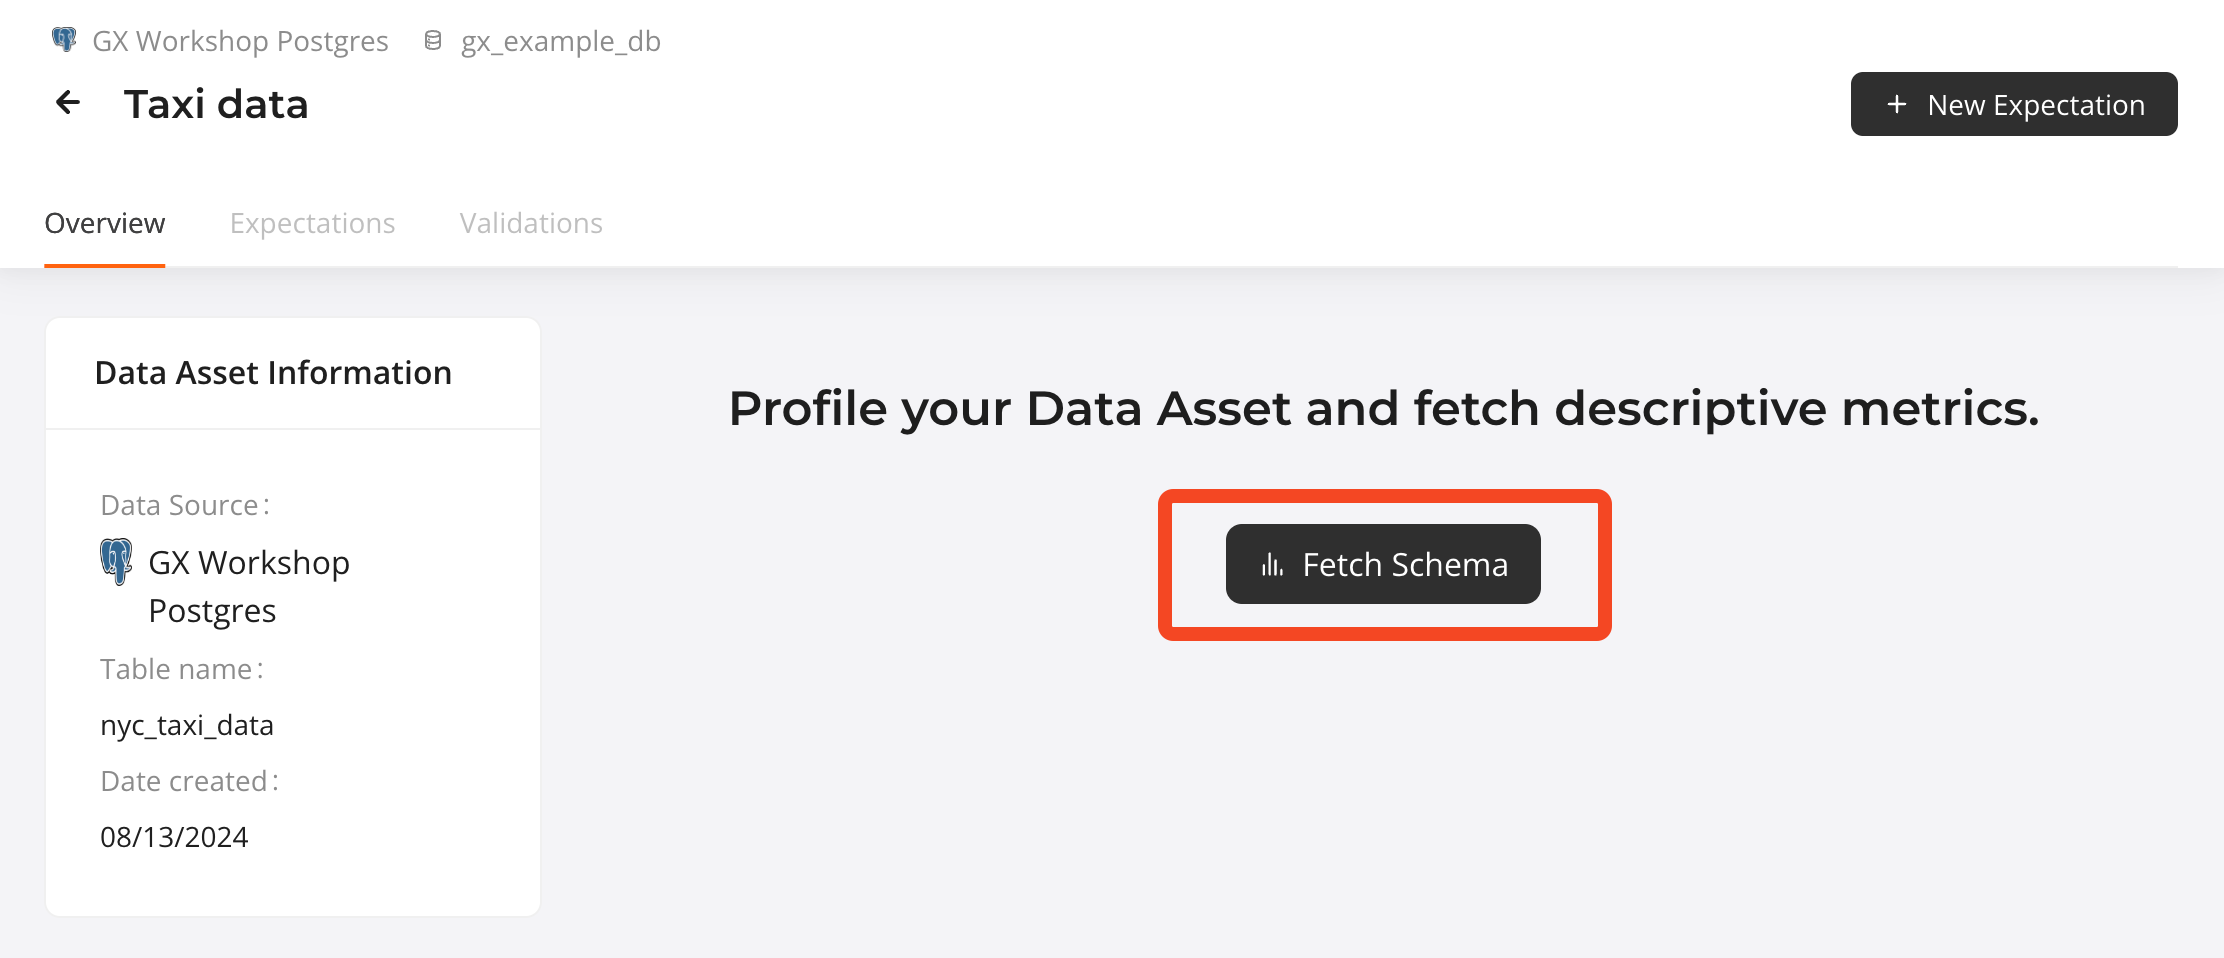
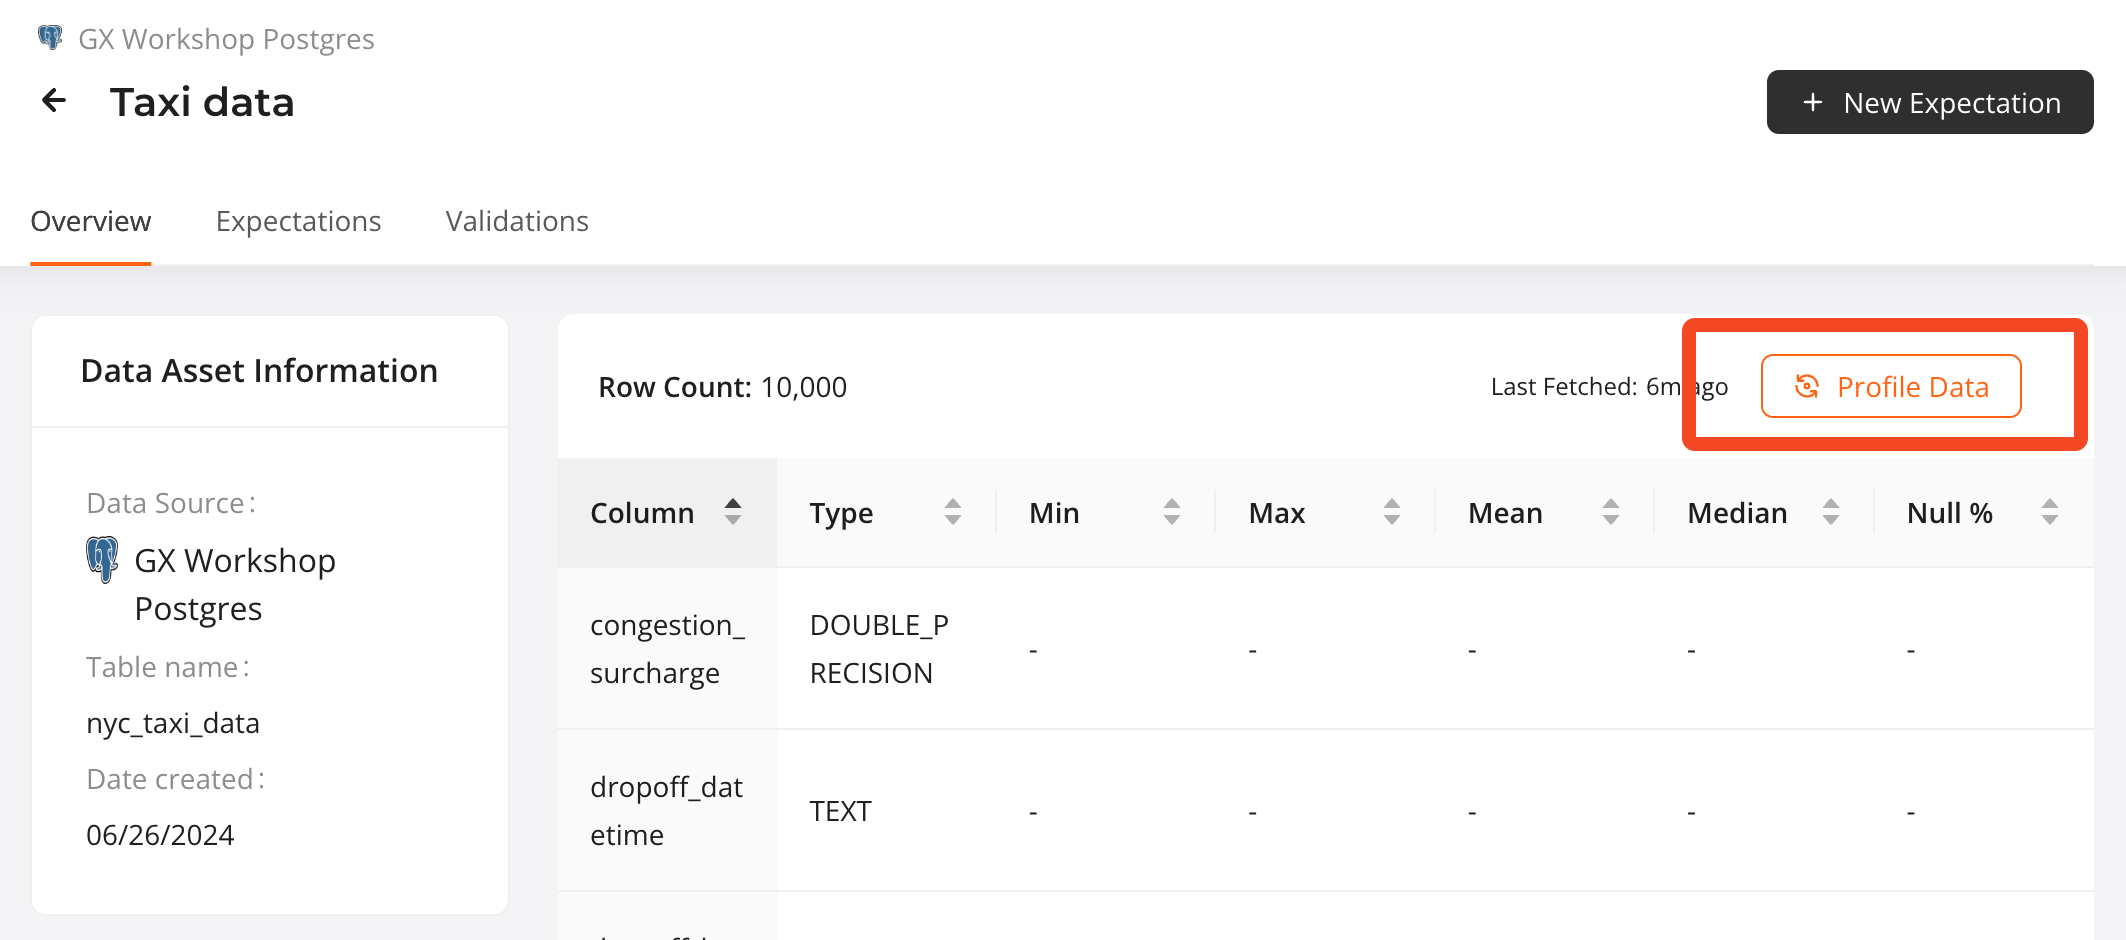
[DSB-1041] - a few other updates

diff --git a/get_started_with_gx_cloud_and_postgres/workshop.md b/get_started_with_gx_cloud_and_postgres/workshop.md
@@ -6,7 +6,6 @@ Welcome to our workshop! In this workshop, you'll learn how to connect your GX C
 
 ## Prerequisites
 - A [GX Cloud](https://hubl.li/Q02ng2Jx0) account with Admin or Editor permissions.
-- A publicly accessible PostgreSQL database.
 
 ## Agenda
 You'll complete the following tasks in this workshop:
@@ -27,7 +26,7 @@ If you're new to GX, an understanding of the following [GX terminology](https://
 Sign in to [GX Cloud](https://hubl.li/Q02ng2Jx0).
 
 ## Create a Postgres Data Source and Data Asset
-You'll need to connect to Postgres from GX Cloud. We have set up a publicly available AWS RDS instance for workshop users.
+You'll need to connect to Postgres from GX Cloud. We have set up a publicly available AWS RDS instance for this workshop.
 
 > **Create a Postgres Data Source**
 > 1. In GX Cloud, click **Data Assets** > **New Data Asset**, if this is your first time using GX Cloud, the **Data Assets** page will prompt to create a **Data Source**.
@@ -44,7 +43,7 @@ You'll need to connect to Postgres from GX Cloud. We have set up a publicly avai
 
 > **Configure the GX Workshop Postgres Data Asset**
 > 1. On the **Select tables to import** page, check the box next to `nyc_taxi_data`.
-> 1. Click **Finish**.
+> 1. Click **Add 1 Asset**.
 
 <img src="img/add_pg_data_asset.png" alt="Add a Postgres Data Source" style="width:600px;"/><br>
 
@@ -101,7 +100,7 @@ You have successfully created two Expectations. Now, make sure that they pass as
 
 <img src="../common/img/validate_1.png" alt="Validate a Data Asset" style="width:800px;"/><br>
 
-After you click **Validate**, GX Cloud sends a job to your locally running GX Agent to run queries, based on the defined Expectations, against the data in Postgres. The GX Agent uses the query results to determine if the data fails or meets your Expectations, and reports the results back to GX Cloud.
+After you click **Validate**, GX Cloud starts a job to run queries based on the defined Expectations against the data in Postgres. GX Cloud uses the query results to determine if the data fails or meets your Expectations, and reports the results back to the UI.
 
 After validation is completed, a notification appears indicating that the Validation results are ready. To view the results, you can either click on the link provided in the notification, or click on the Data Asset **Validations** tab.
 
@@ -123,13 +122,13 @@ After the Expectation is updated, run the Validation again. When the notificatio
 <img src="../common/img/validation_result_2.png" alt="Validation results with all passing Expectations" style="width:700px;"/><br>
 
 ## Fetch Metrics
-You might wonder if there is an easier way to create your Expectations, instead of making assumptions or manually inspecting the data. Thankfully, GX Cloud lets you fetch the metrics from your data directly, so that you don't have to!
+You might wonder if there is an easier way to create your Expectations instead of making assumptions or manually inspecting the data. Thankfully, GX Cloud lets you fetch the metrics from your data directly, so that you don't have to!
 
 When you fetch Metrics for a Data Asset, GX Cloud profiles the Data Asset through the GX Agent and returns a collection of descriptive metrics including column types, statistical summaries, and null percentages.
 
 > **Fetch Metrics for a Data Asset**
 > 1. Click the Data Asset **Overview** tab. Basic information about your Data Asset is displayed in the **Data Asset Information** pane.
-> 1. Click the **Fetch Schema** button.
+> 1. Click the **Profile Data** button.
 
 <img src="img/pg_profile_data.png" alt="Profile data button for Postgres Data Asset" style="width:700px;"/><br>
 
